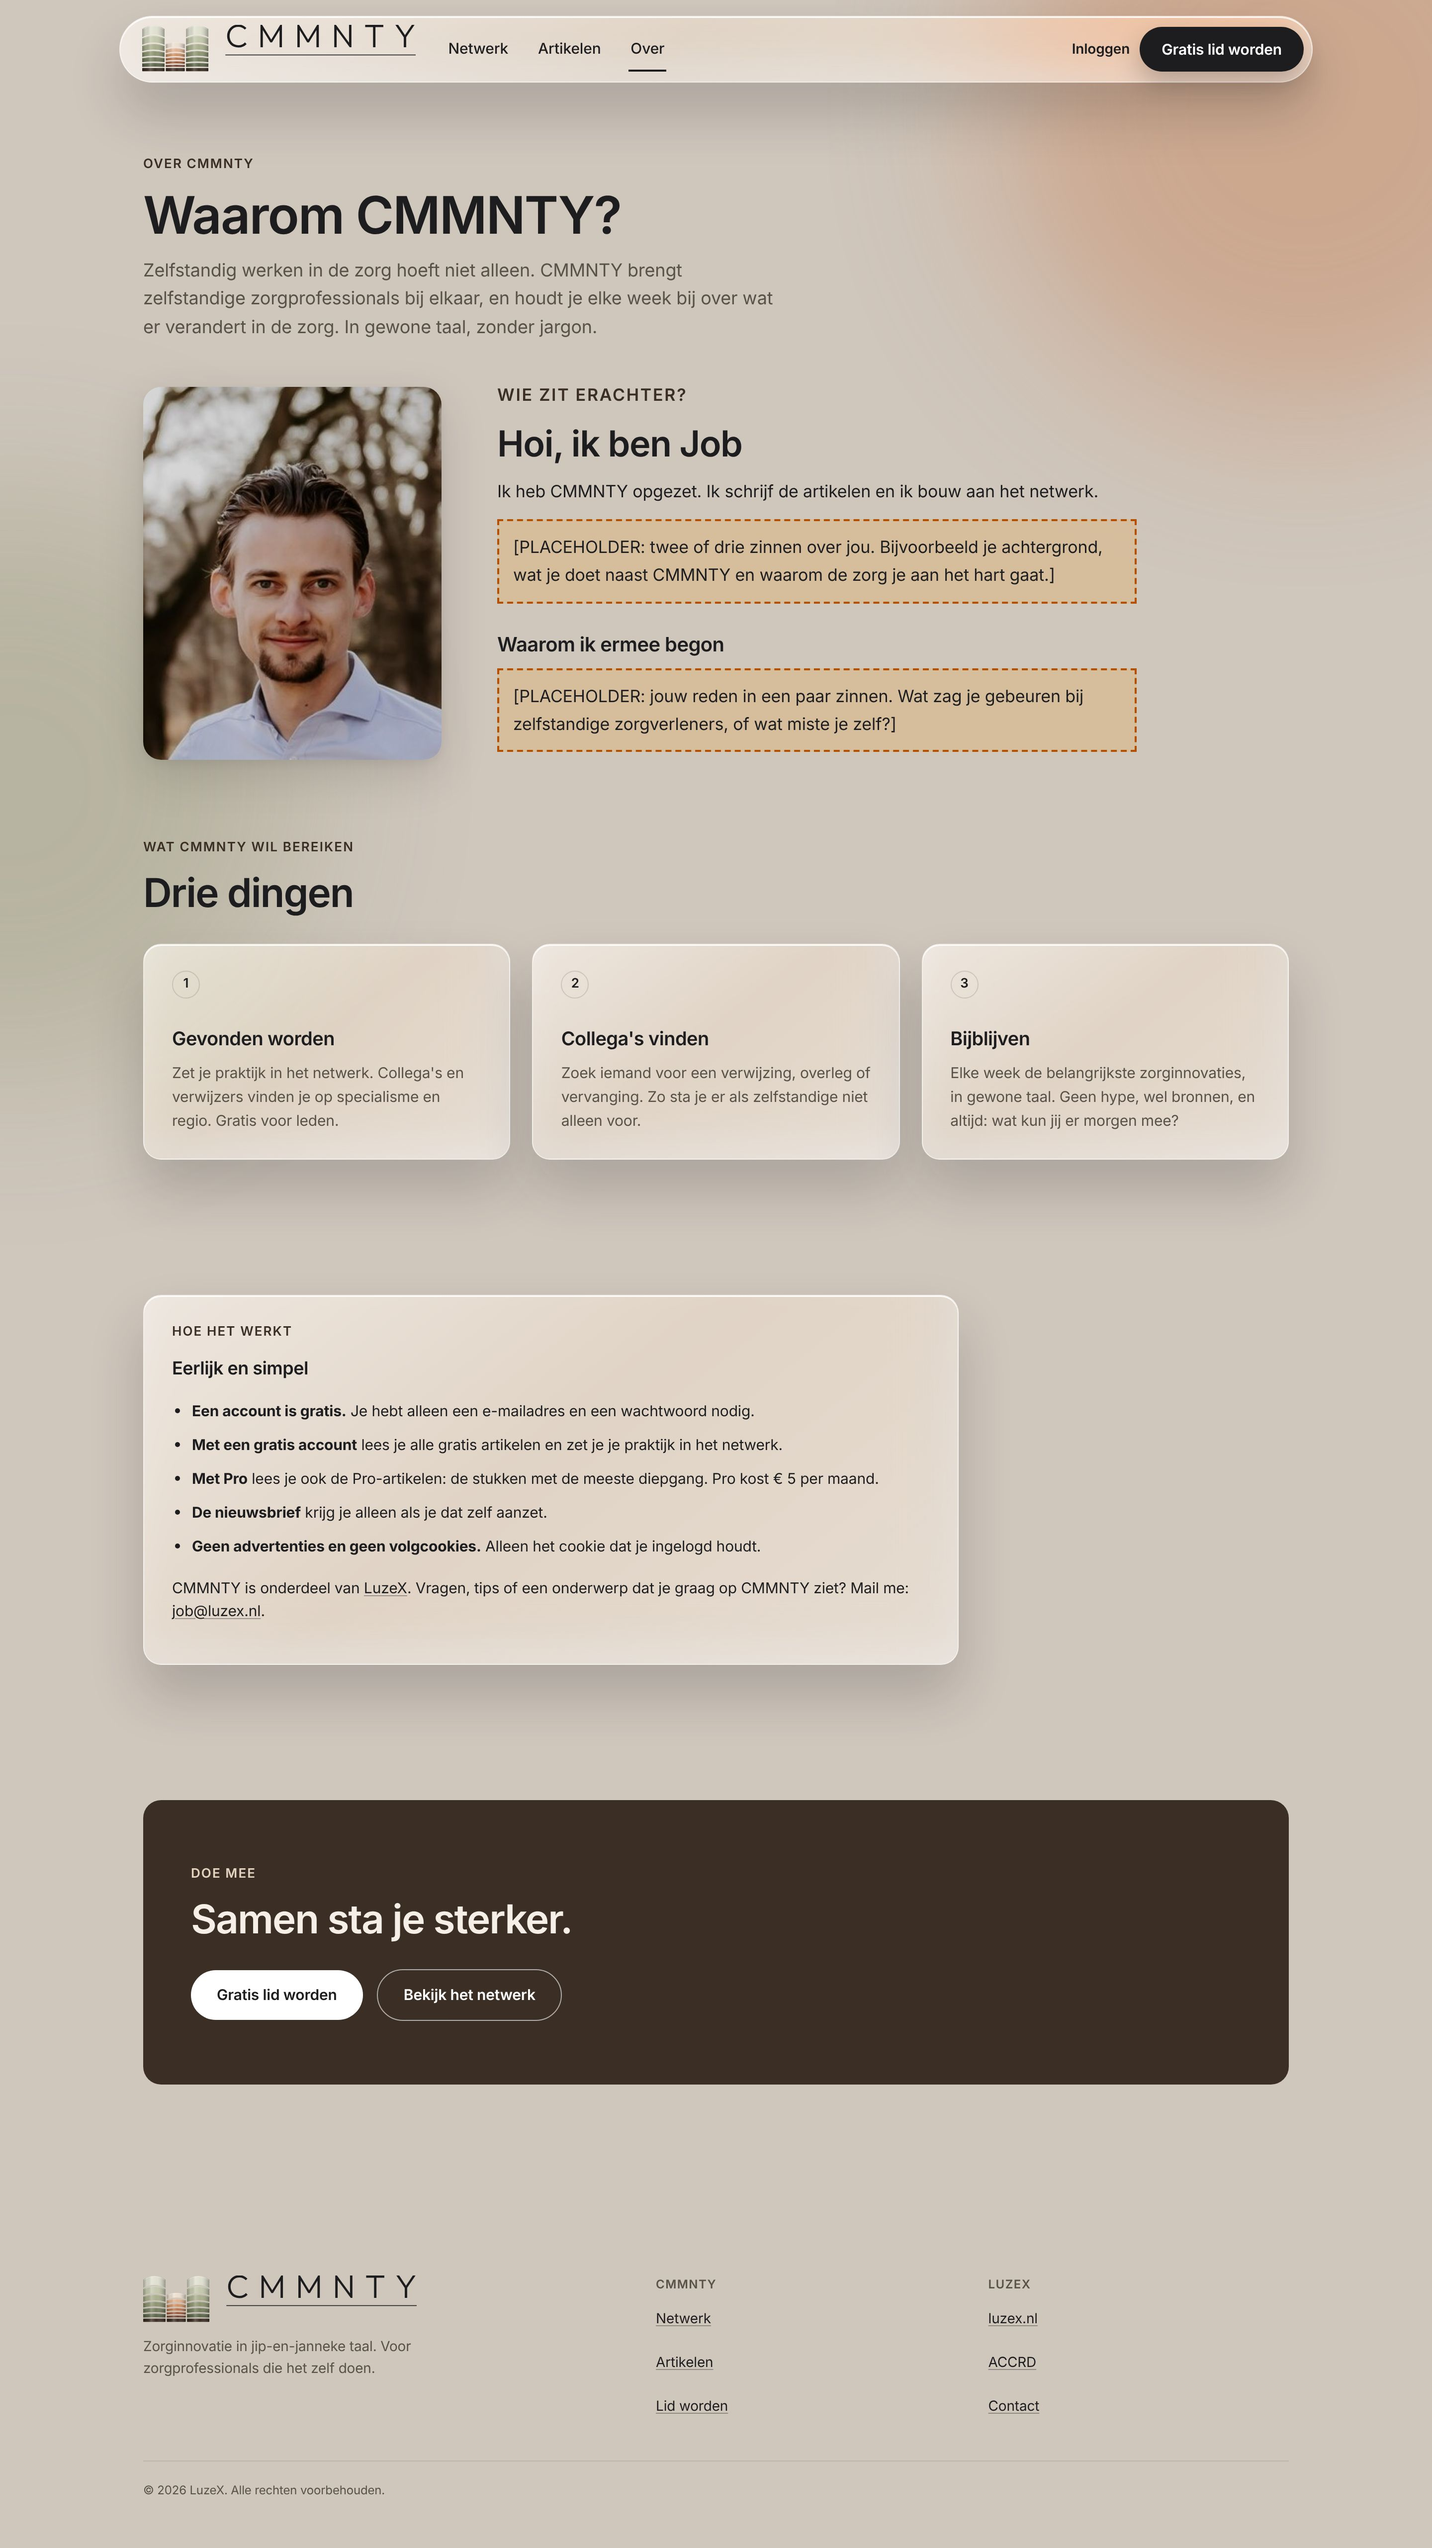
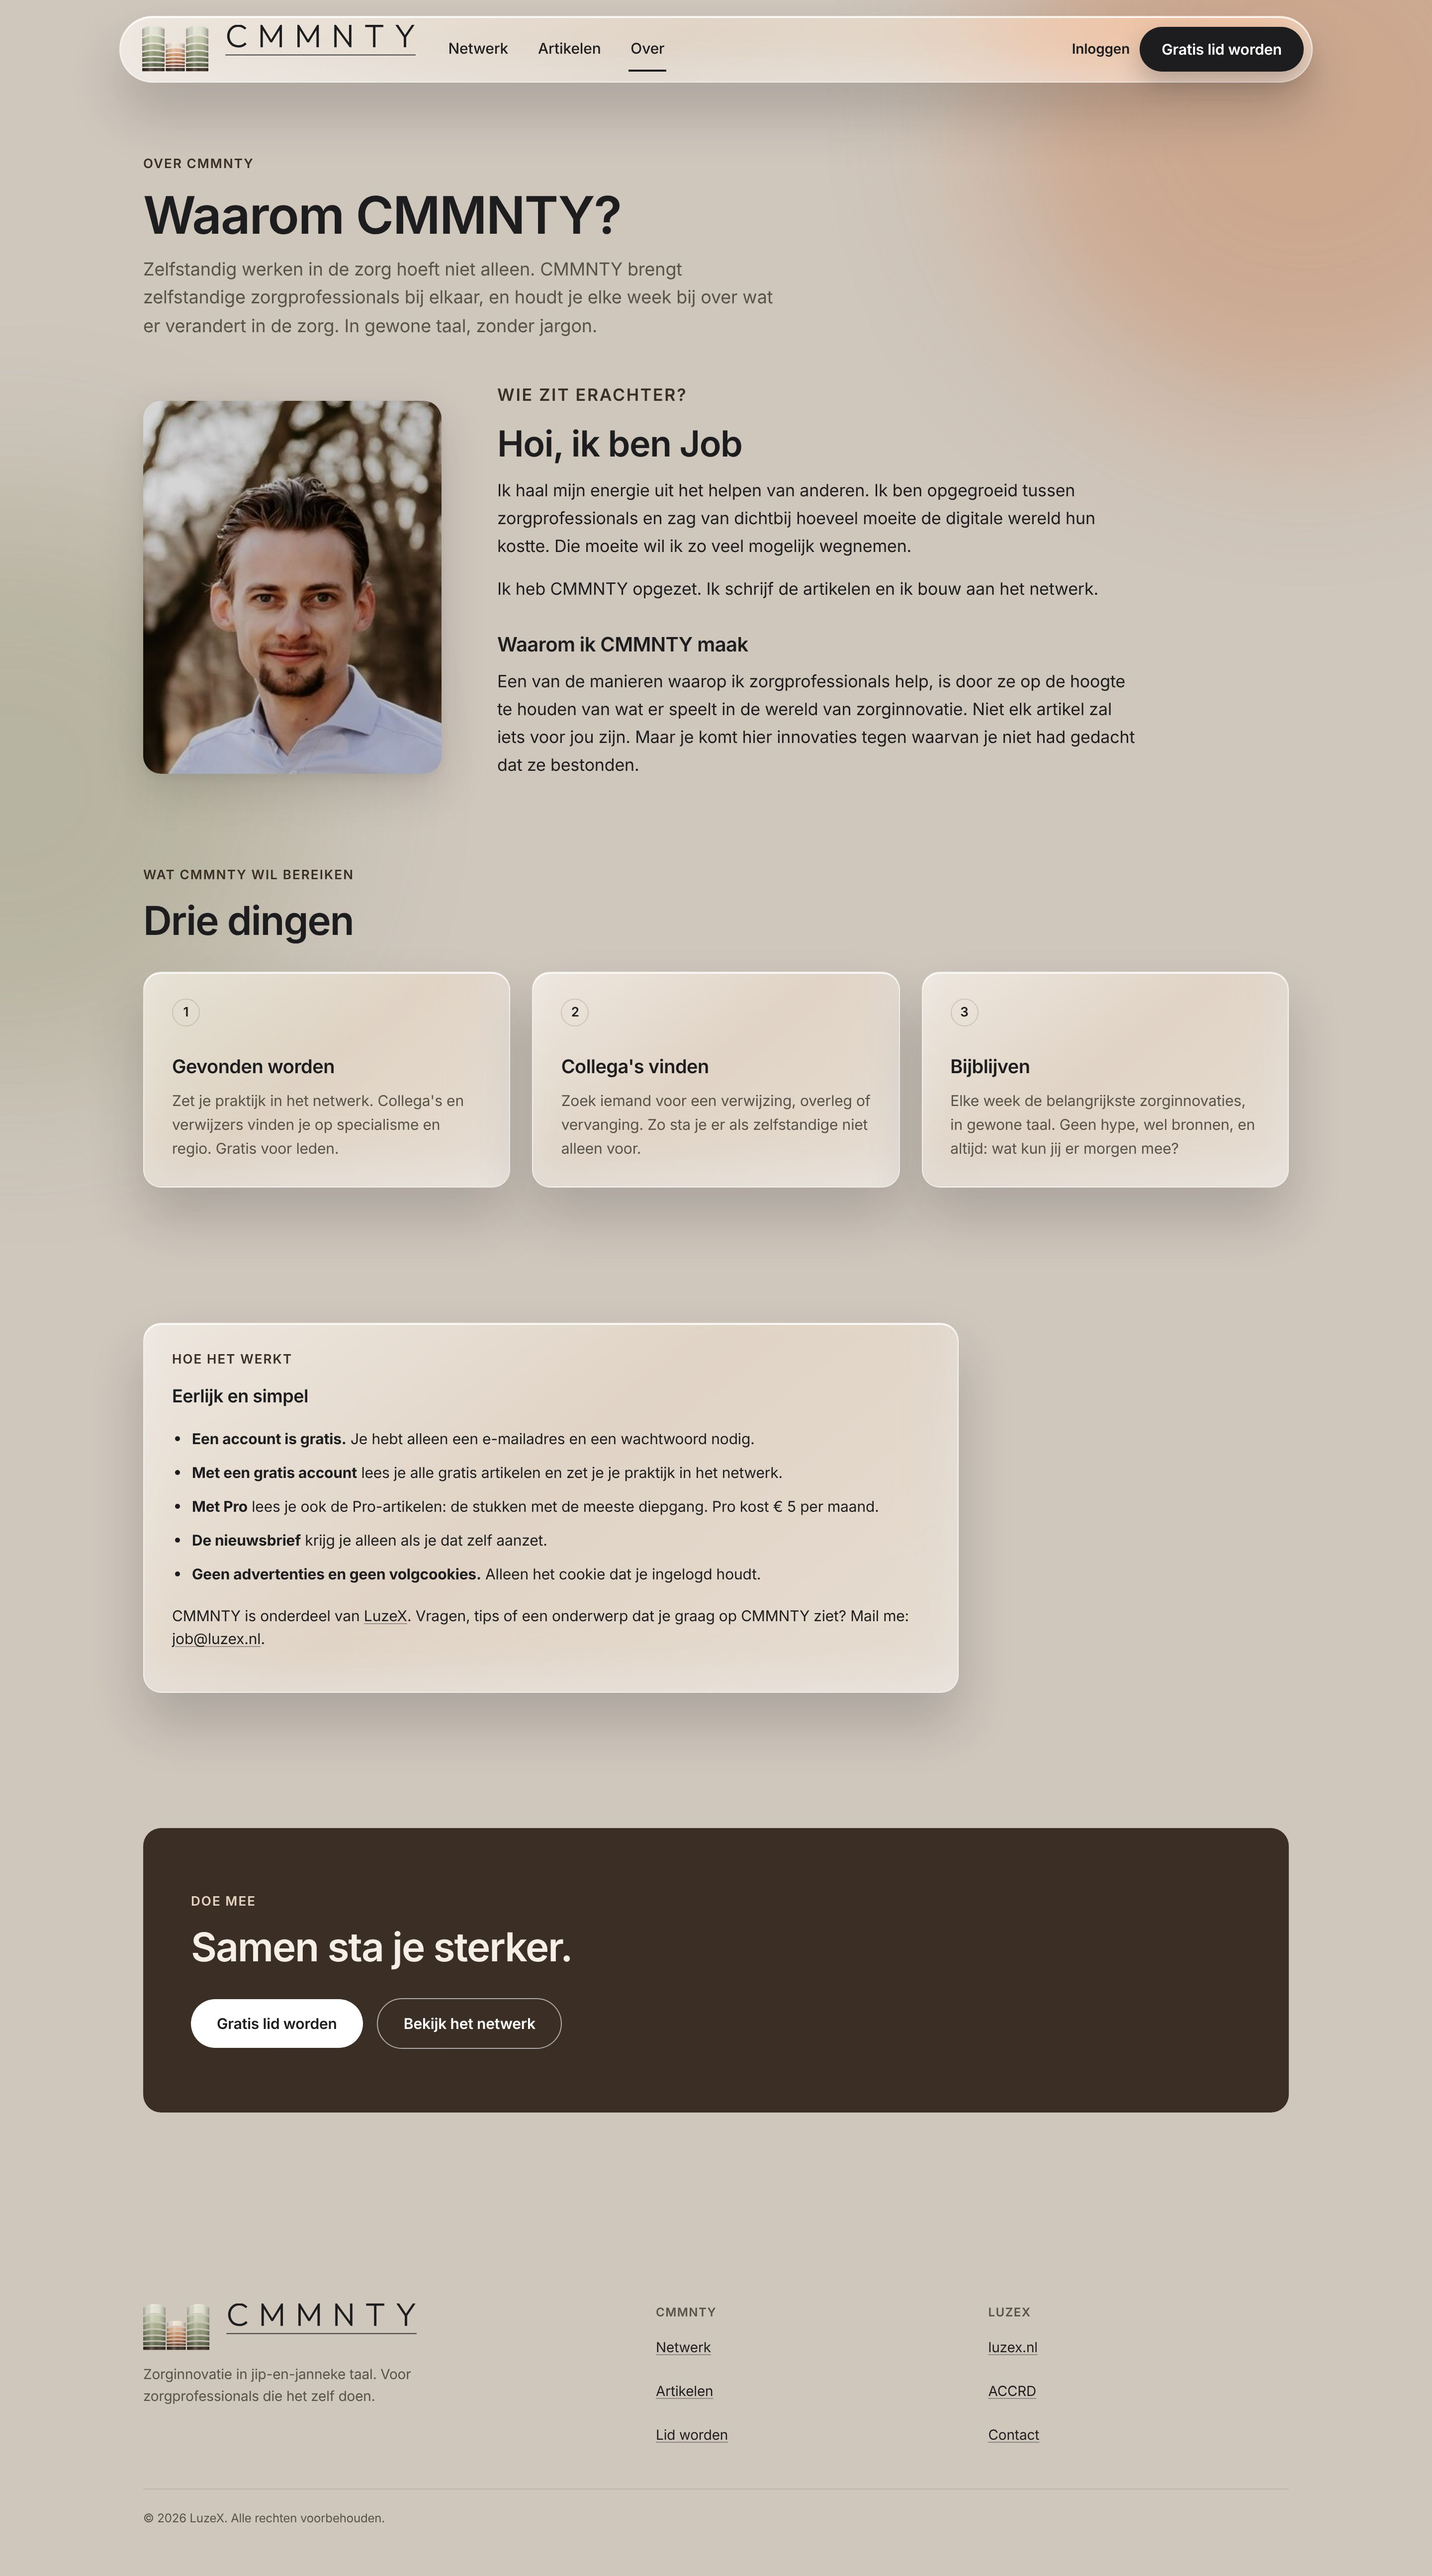
Over-pagina: tekst van Job ingevuld, plus prompt voor de andere LuzeX-sites
- De twee [PLACEHOLDER]-stukken zijn vervangen door Jobs eigen verhaal, netjes verwoord.
- docs/prompt-over-job-luzex.md: opdracht voor de overkoepelende chat om het persoonlijke
  blok (zonder het CMMNTY-deel) ook op de andere LuzeX-sites te zetten.

Claude-Session: https://claude.ai/code/session_01CA2ydDVsrszqMRSm4WixbH

diff --git a/frontend/over.html b/frontend/over.html
@@ -41,17 +41,17 @@
       <p class="lead">Zelfstandig werken in de zorg hoeft niet alleen. CMMNTY brengt zelfstandige zorgprofessionals bij elkaar, en houdt je elke week bij over wat er verandert in de zorg. In gewone taal, zonder jargon.</p>
     </div>
 
-    <!-- Wie zit erachter: foto van Job (alleen hij staat erop) en zijn eigen verhaal. -->
+    <!-- Wie zit erachter: foto van Job (alleen hij staat erop) en zijn eigen verhaal, in zijn woorden. -->
     <section class="over-wie">
       <img class="over-foto" src="/assets/job.jpg" alt="Portret van Job" width="328" height="410" />
       <div class="over-tekst">
         <p class="kicker">Wie zit erachter?</p>
         <h2>Hoi, ik ben Job</h2>
+        <p>Ik haal mijn energie uit het helpen van anderen. Ik ben opgegroeid tussen zorgprofessionals en zag van dichtbij hoeveel moeite de digitale wereld hun kostte. Die moeite wil ik zo veel mogelijk wegnemen.</p>
         <p>Ik heb CMMNTY opgezet. Ik schrijf de artikelen en ik bouw aan het netwerk.</p>
-        <p class="placeholder">[PLACEHOLDER: twee of drie zinnen over jou. Bijvoorbeeld je achtergrond, wat je doet naast CMMNTY en waarom de zorg je aan het hart gaat.]</p>
 
-        <h3>Waarom ik ermee begon</h3>
-        <p class="placeholder">[PLACEHOLDER: jouw reden in een paar zinnen. Wat zag je gebeuren bij zelfstandige zorgverleners, of wat miste je zelf?]</p>
+        <h3>Waarom ik CMMNTY maak</h3>
+        <p>Een van de manieren waarop ik zorgprofessionals help, is door ze op de hoogte te houden van wat er speelt in de wereld van zorginnovatie. Niet elk artikel zal iets voor jou zijn. Maar je komt hier innovaties tegen waarvan je niet had gedacht dat ze bestonden.</p>
       </div>
     </section>
 

diff --git a/docs/prompt-over-job-luzex.md b/docs/prompt-over-job-luzex.md
@@ -1,0 +1,37 @@
+# Prompt: blok "Over Job" op de andere LuzeX-sites
+
+Plak de tekst hieronder in de overkoepelende LuzeX-chat.
+
+---
+
+**Opdracht: zet het blok "Wie zit erachter?" over Job op de andere LuzeX-sites**
+
+Op CMMNTY (repo `LuzeX-platform/CMMNTY`, pagina `frontend/over.html`) staat een Over-pagina met een persoonlijk blok over mij, met foto. Ik wil datzelfde persoonlijke blok ook op de andere LuzeX-sites (luzex.nl en de andere producten). Het CMMNTY-deel neem je níét over.
+
+**Wat er per site komt**
+- Kicker: "Wie zit erachter?"
+- Kop: "Hoi, ik ben Job"
+- Deze tekst, letterlijk:
+  > Ik haal mijn energie uit het helpen van anderen. Ik ben opgegroeid tussen zorgprofessionals en zag van dichtbij hoeveel moeite de digitale wereld hun kostte. Die moeite wil ik zo veel mogelijk wegnemen.
+- Daaronder één of twee zinnen over hoe dít product daarbij helpt. Haal die uit teksten die al op die site staan, en verzin niets. Staat er niets bruikbaars, zet dan `[PLACEHOLDER: hoe <product> zorgprofessionals helpt]` neer en vraag het mij.
+- De foto: gebruik alléén de bijgesneden versie, waarop alleen ik sta. Die staat in de CMMNTY-repo als `frontend/assets/job.jpg` (328×410 px, verhouding 4:5). Neem het bestand op in de eigen assets van elke site. Geen link naar een andere site. Alt-tekst: "Portret van Job".
+- Contact (alleen waar het past): job@luzex.nl.
+
+**Níét overnemen (dat is CMMNTY)**
+De zin "Ik heb CMMNTY opgezet…", de alinea "Waarom ik CMMNTY maak" (artikelen en zorginnovatie), "Drie dingen", "Hoe het werkt", Pro, de nieuwsbrief, het netwerk en de oproep "Samen sta je sterker".
+
+**Waar op de site**
+Op een bestaande Over-pagina of Over-sectie. Is die er niet, stel dan een plek voor (een eigen Over-pagina, of een sectie op de homepage) en vraag mij eerst.
+
+**Vormgeving (zoals op CMMNTY, binnen de LuzeX-huisstijl)**
+- Twee kolommen: links de foto (hooguit 300 px breed, 4:5, afgeronde hoeken met de grote radius van de site, zachte schaduw), rechts de tekst. Onder 760 px komen ze onder elkaar, met de foto hooguit 260 px breed.
+- Gebruik de tokens van de site (lettertype, tekstkleur, radius, schaduw) en herdefinieer niets. Koppen gewicht 600, geen uitroeptekens, geen superlatieven.
+- Elke tekstkleur haalt minstens 4,5:1 op de echte pagina. De focus moet zichtbaar zijn. Er mag geen horizontale scrollbalk zijn op 320, 360, 390, 768 en 1440 px.
+- Geen externe scripts, lettertypes of tracking erbij.
+
+**Werkwijze per site**
+- Hernoem niets. Sluit aan bij de structuur en gewoontes van die repo.
+- Werk op een aparte branch. Zet niets op `main` zonder mijn akkoord, want Render rolt automatisch uit.
+- Stuur me per site:
+  - een schermafbeelding op desktop en op mobiel;
+  - welke zin over het product je hebt gebruikt, en waar die vandaan komt.
